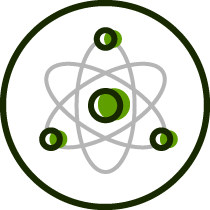
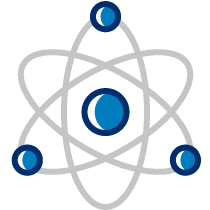
T1 552 dev (#519)
* T1-552 Update icons and point to MenuTileCollection component to render tiles

* T1-552 Remove padding on small size screen and update grid-media

diff --git a/src/client/components/pages/section-page/section-page.jsx b/src/client/components/pages/section-page/section-page.jsx
@@ -1,15 +1,10 @@
 import React from 'react'
 import path from 'path'
-import { camelCase } from 'lodash'
 
 import constants from '../../../services/constants.js'
 import styles from './section-page.scss'
 import { RemoveMainLoader, SimpleCta } from 'molecules'
-import {
-  MenuTileCollection,
-  FundingProgramsTileCollection,
-  FederalContractingTileCollection
-} from 'organisms'
+import { MenuTileCollection, FederalContractingTileCollection } from 'organisms'
 
 class SectionPage extends React.Component {
   equalsIgnoreCase(first, second) {
@@ -39,7 +34,7 @@ class SectionPage extends React.Component {
       if (this.equalsIgnoreCase(sectionName, constants.sections.businessGuide)) {
         tileCollection = <MenuTileCollection data={sectionData.children} splitTitle />
       } else if (this.equalsIgnoreCase(sectionName, constants.sections.fundingPrograms)) {
-        tileCollection = <FundingProgramsTileCollection sectionData={sectionData} />
+        tileCollection = <MenuTileCollection data={sectionData.children} />
       } else if (this.equalsIgnoreCase(sectionName, constants.sections.forPartners)) {
         tileCollection = <MenuTileCollection data={sectionData.children} />
       } else if (this.equalsIgnoreCase(sectionName, constants.sections.federalContracting)) {

diff --git a/src/client/components/organisms/menu-tile-collection/icons.jsx b/src/client/components/organisms/menu-tile-collection/icons.jsx
@@ -27,6 +27,28 @@ const icons = {
     {
       icon: require('assets/images/for-partners/For_Partners_Icon_Contracting_Officials_color.png')
     }
+  ],
+  'funding-programs': [
+    {
+      icon: require('assets/images/funding-programs/Funding_Programs_Icon_Loans_color.png'),
+      iconWhite: require('assets/images/funding-programs/Funding_Programs_Icon_Loans_white.png')
+    },
+    {
+      icon: require('assets/images/funding-programs/Funding_Programs_Icon_Investment_color.png'),
+      iconWhite: require('assets/images/funding-programs/Funding_Programs_Icon_Investment_white.png')
+    },
+    {
+      icon: require('assets/images/funding-programs/Funding_Programs_Icon_Disaster_color.png'),
+      iconWhite: require('assets/images/funding-programs/Funding_Programs_Icon_Disaster_white.png')
+    },
+    {
+      icon: require('assets/images/funding-programs/Funding_Programs_Icon_Surety_color.png'),
+      iconWhite: require('assets/images/funding-programs/Funding_Programs_Icon_Surety_white.png')
+    },
+    {
+      icon: require('assets/images/funding-programs/Funding_Programs_Icon_Grants_color.png'),
+      iconWhite: require('assets/images/funding-programs/Funding_Programs_Icon_Grants_white.png')
+    }
   ]
 }
 

diff --git a/src/client/components/molecules/menu-tile/menu-tile-shared.scss b/src/client/components/molecules/menu-tile/menu-tile-shared.scss
@@ -1,22 +1,24 @@
 .largeTitle {
-  padding: 0 20px;
-  @include grid-media($sba-grid-small) {
+  @include for-small-only {
     margin-top: 1.56rem;
     margin-bottom: 0;
   }
-  @include grid-media($sba-grid-medium) {
+  @include for-medium-up {
     text-align: center;
     margin-top: 12px;
     margin-bottom: 0;
     line-height: 30px;
   }
+  @include for-large-up {
+    padding: 0 20px;
+  }
 }
 
 .smallTitle {
-  @include grid-media($sba-grid-small) {
+  @include for-small-only {
     margin-top: 4px;
   }
-  @include grid-media($sba-grid-medium) {
+  @include for-medium-up {
     text-align: center;
     margin-top: 4px;
     margin-bottom: 0;

diff --git a/src/client/components/molecules/menu-tile-with-links/menu-tile-with-links.scss b/src/client/components/molecules/menu-tile-with-links/menu-tile-with-links.scss
@@ -11,7 +11,6 @@
   color: white;
   text-align: center;
   margin-top: 20px;
-  padding: 0 20px;
 }
 
 .topLine {
